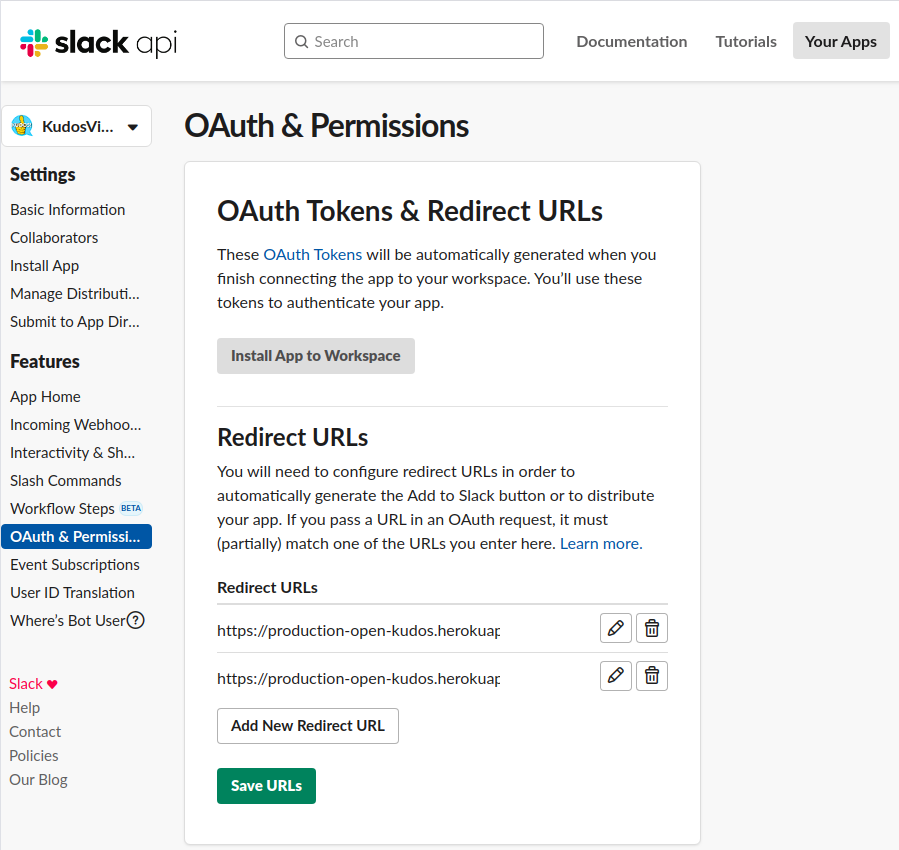
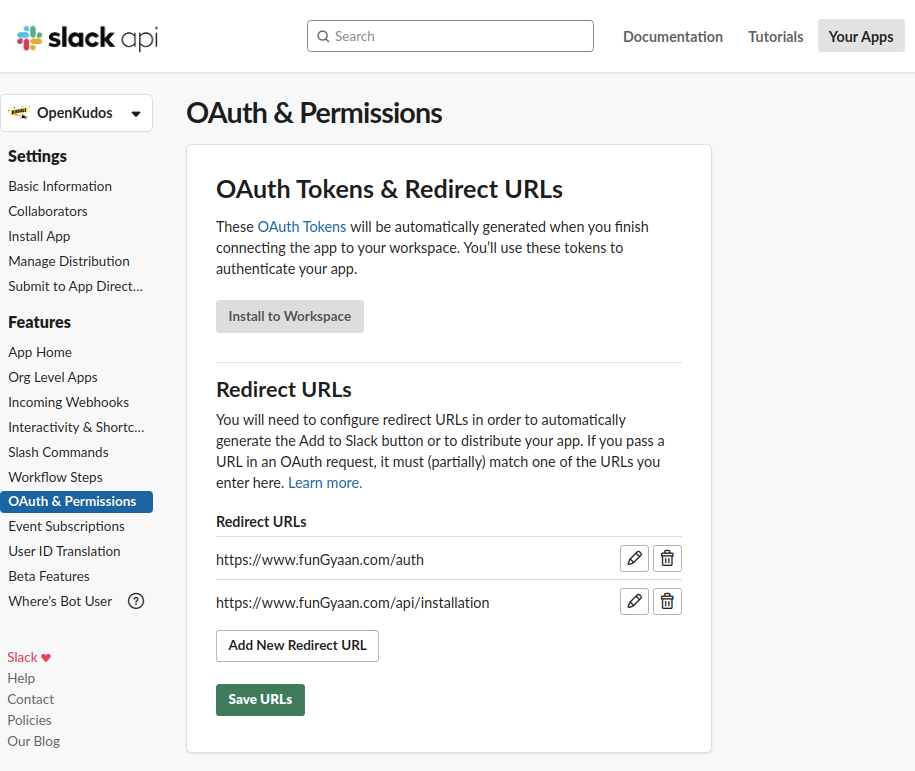
INSTALLATION.md updated with new images

diff --git a/INSTALLATION.md b/INSTALLATION.md
@@ -5,16 +5,16 @@
     ![PO Editor](installation/poeditor.png "PO Editor")
 
     1. Add new project
-        1. Write a `Name` of your choice. e.g. `KudosVishalPOE`
+        1. Write a `Name` of your choice. e.g. `OpenKudosPOE`
     2. Go to [`Account Settings`->`API Access`](https://poeditor.com/account/api)
     3. Copy `API Token` as `POE_API_TOKEN`
-    4. Copy `KudosVishalPOE` project id as `POE_PROJECT_ID`
+    4. Copy `OpenKudosPOE` project id as `POE_PROJECT_ID`
 3. Go to https://www.dropbox.com/developers/apps/create and signup/singin to your account
     1. Choose plan. e.g. `2 GB Dropbox Basic plan`
     2. Exit the webpage and go to https://www.dropbox.com/developers/apps/create
         1. Choose an API = `Scoped Access`
         2. Choose the type of access you need = `Full Dropbox`
-        3. Write an `App Name` of your choice. e.g. `KudosVishalDropbox`
+        3. Write an `App Name` of your choice. e.g. `OpenKudosDbox`
         4. Agree to T&C and click `Create App`
         5. Go to `settings` of this app. Go to `OAuth 2` section
         6. Click on `Generate` button next to Generated access token
@@ -45,6 +45,8 @@
         ![App Icon](installation/appicon.png "App Icon")
 
         1. Click on `+Add App Icon` button to add icon of your choice (atleast 512x512)
+        2. Write short description `Appreciation, Engagement and Recognition Bot`
+        3. Write background color `#c55100`
 5. Setup Node Server
     1. Fork this [repo](https://github.com/the-vishal-kumar/open-kudos)
     2. Deploy this to a server. Copy the `server url` as `BaseUrl`. e.g. Suppose BaseUrl is [https://www.funGyaan.com](https://www.funGyaan.com)
@@ -65,7 +67,7 @@
     DROPBOX_TOKEN=xxxxxxxxxxxxxxxxxxxxxxxxxxxxxxxxxxxxxxxxxxxxxxxxxxx
     ```
 7. Start Node Server
-8. Setup the created OpenKudos App in Slack App Directory. Go to https://api.slack.com/apps -> `KudosVishal` App
+8. Setup the created OpenKudos App in Slack App Directory. Go to https://api.slack.com/apps -> `OpenKudos` App
     1. Go to `OAuth & Permissions`->`Redirect URLs`
 
         ![Redirect URLs](installation/addredirecturls.png "Redirect URLs")
@@ -105,14 +107,14 @@
 
             1. Write Command as `/kudos`
             2. Write Request URL as `BaseUrl`+`/api/slack/command`. e.g. https://www.funGyaan.com/api/slack/command
-            3. Write Short Description as `Talk with Kudos Bot`
+            3. Write Short Description as `Talk with OpenKudos Bot`
             4. Write Usage Hint as `help`
             5. Enable `Escape channels, users, and links sent to your app`
             6. Save
                 ```
                 Command             /kudos
                 Request URL         https://www.funGyaan.com/api/slack/command
-                Short Description   Talk with Kudos Bot
+                Short Description   Talk with OpenKudos Bot
                 Usage Hint          help
                 ```
     7. Go to `Event Subscriptions`
@@ -132,20 +134,38 @@
 10. Go to slack workspace
     1. Create or Open a channel
     2. Add App -> Find the slack app you just created and click on `Add` button
-    3. Write `/kudos give @Vishal 10 kudos for implementing Open-Kudos Project` to give 10 kudos points to Vishal
+    3. Write `/kudos help`
         ```
-        @username1 gave @Vishal 10 for implementing Open-Kudos Project
+        Happy to help, below a list of commands that you can currently use:
+        
+        give @person 10 for helping with code review.
+        - This is the main feature of the bot.
+        - The message structure: give @pointsReceiver [number of points] for [reason]
+        - You can give some points to somebody for some reason or without reason
+        - A message with points without reason: give @pointsReceiver 10
+        
+        balance - this command returns your current balance of points.
+        
+        gifts - this command displays a list of gifts that you can get after exchanging your received points.
+        
+        leaderboard - this command displays a list of top 5 users with the biggest amount of kudos received.
+        
+        help - I guess you already know how it works.
         ```
-    4. Write `/kudos balance`
+    4. Write `/kudos give @person 10 kudos for implementing Open-Kudos Project` to give 10 kudos points to Vishal
+        ```
+        @person just received 10 kudos from @you for implementing Open-Kudos Project
+        ```
+    5. Write `/kudos balance`
         ```
         Here is your current balance
 
-        Giveable Balance
-        89 Kudos
+        Kudos to Give
+        90 Kudos
         These are Kudos you can give to your teammates and are reset at the beginning of the month.
 
         Spendable Balance
-        10 Kudos 
+        0 Kudos 
         You receive these Kudos from your teammates and can spend them to buy gifts. They never expire.
 
         ```
